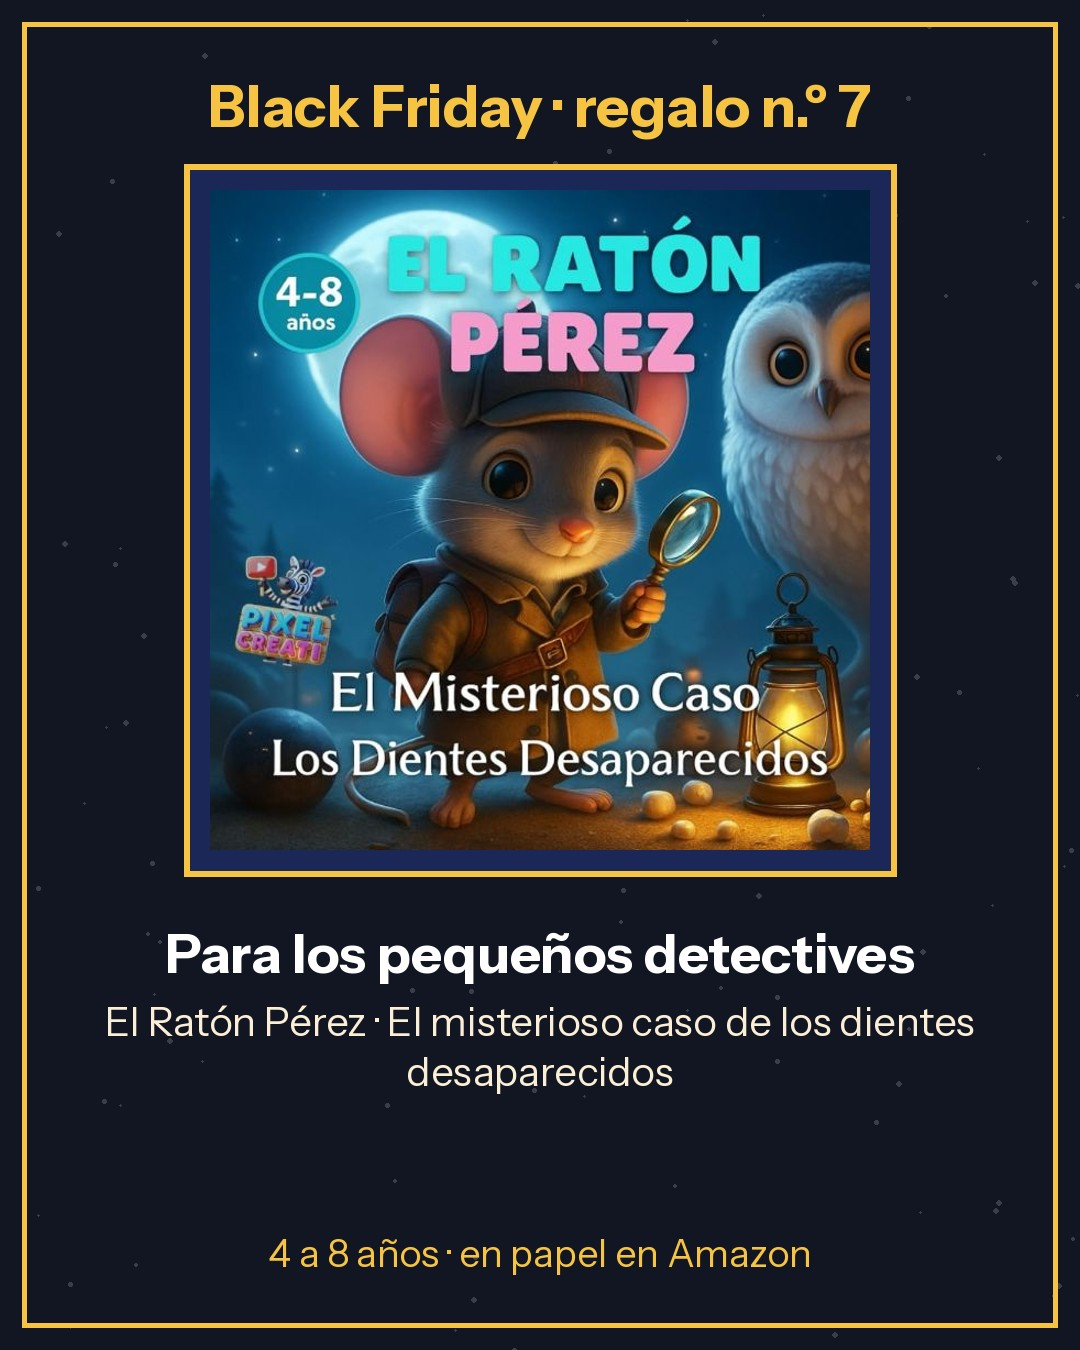
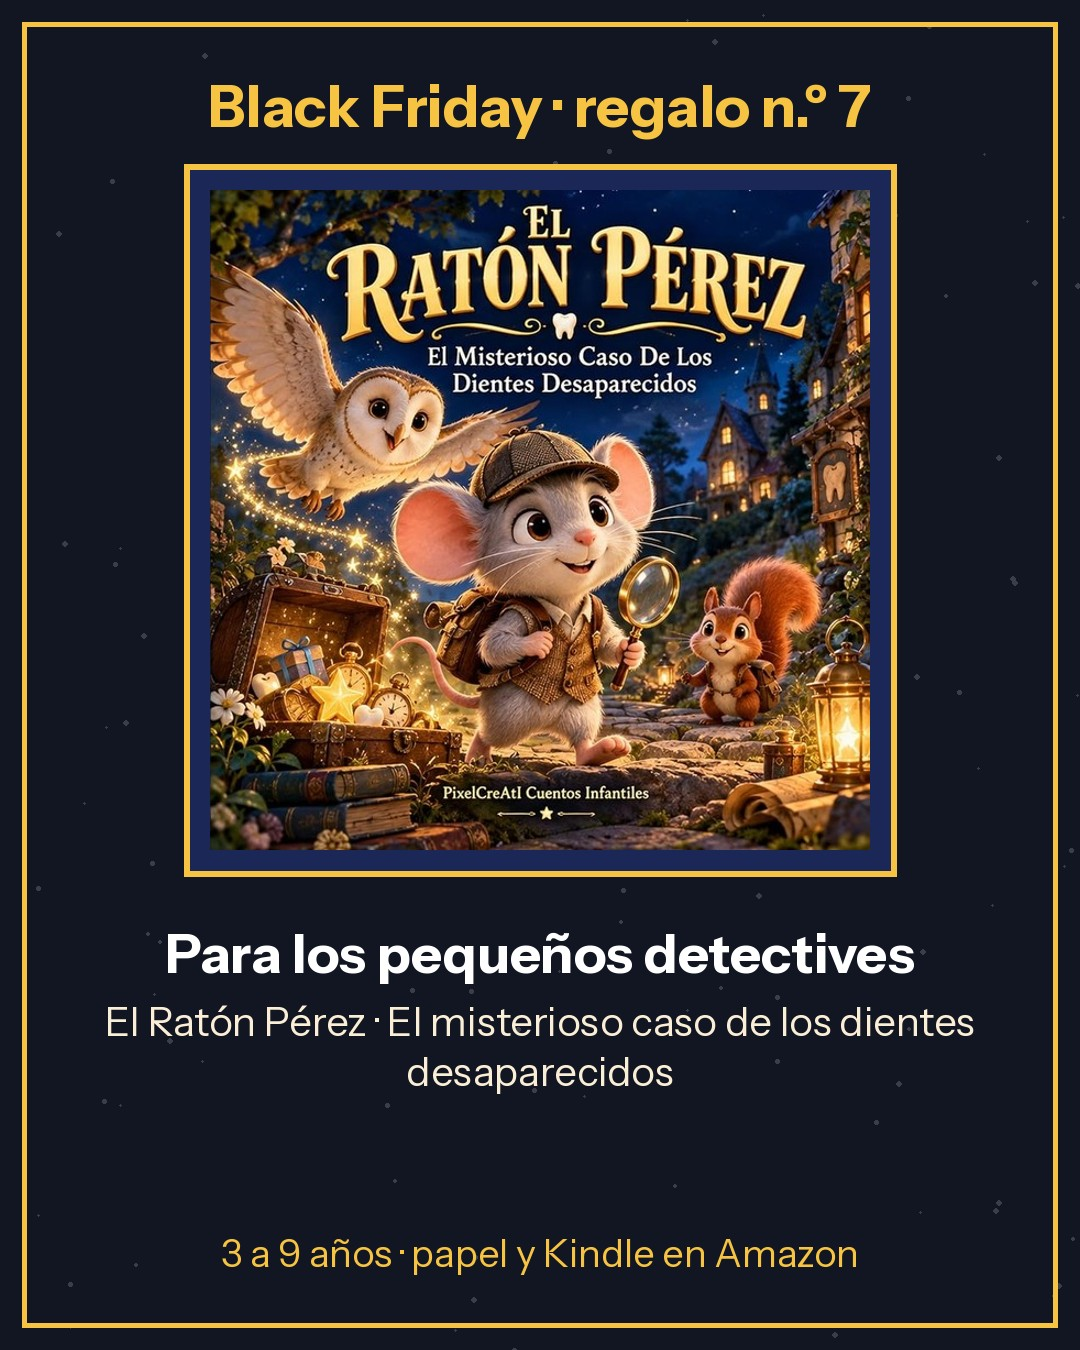
Ratón Pérez: edición nueva en la guía de regalos y las piezas (#25)
* Campañas Black Friday y Navidad: guía de regalos (6 libros), carrusel e historias BF/Cyber Monday y piezas navideñas de Pole y Chispa

Claude-Session: https://claude.ai/code/session_01YCMVw6rxdgjKcfUwU4SzzV

* Panel del canal: mensaje de Black Friday y Pole y Chispa en ideas de regalo

Claude-Session: https://claude.ai/code/session_01YCMVw6rxdgjKcfUwU4SzzV

* Ratón Pérez en la guía de regalos y en las piezas de Black Friday y Navidad

Claude-Session: https://claude.ai/code/session_01YCMVw6rxdgjKcfUwU4SzzV

* Resuelve conflicto de la fusión

* Regenera difusion.html con el Ratón Pérez

* Ratón Pérez: edición nueva (B0GTW2VW95 / Kindle B0HHDXS7F1) en guía, web y piezas

Claude-Session: https://claude.ai/code/session_01YCMVw6rxdgjKcfUwU4SzzV

---------

Changed region(s): [[0.1833, 0.1244, 0.825, 0.6533], [0.2139, 0.9022, 0.7944, 0.9644]]

diff --git a/regalos.html b/regalos.html
@@ -46,7 +46,7 @@ a{color:var(--azul)}
 <article class="ficha"><img src="img/regalos/libro-4.jpg" width="400" height="400" alt="Portada de El sueño de ser policía 4: La escuela de Capitán" loading="lazy">
 <div><h2>El sueño de ser policía 4</h2><p class="sub">La escuela de Capitán</p><p>Para los que adoran a los perros: los miedos se vencen poco a poco.</p><div class="btns"><a class="btn" href="https://www.amazon.es/dp/B0HQTTPR65" rel="noopener">Ver en Amazon</a></div></div></article>
 <article class="ficha"><img src="img/regalos/raton-perez.jpg" width="400" height="400" alt="Portada de El Ratón Pérez: el misterioso caso de los dientes desaparecidos" loading="lazy">
-<div><h2>El Ratón Pérez</h2><p class="sub">El misterioso caso de los dientes desaparecidos</p><p>Para los pequeños detectives: un misterio con lupa, pistas y mucha ternura.</p><div class="btns"><a class="btn" href="https://www.amazon.es/dp/B0D417ZZRC" rel="noopener">Tapa blanda</a></div></div></article>
+<div><h2>El Ratón Pérez</h2><p class="sub">El misterioso caso de los dientes desaparecidos</p><p>Para los pequeños detectives: un misterio con lupa, pistas y la Lechuza de los Sueños (3 a 9 años).</p><div class="btns"><a class="btn" href="https://www.amazon.es/dp/B0GTW2VW95" rel="noopener">Tapa blanda</a><a class="btn alt" href="https://www.amazon.es/dp/B0HHDXS7F1" rel="noopener">Kindle</a></div></div></article>
 <p class="nota">💡 Si lo quieres para Nochebuena, pídelo con tiempo: los plazos de entrega los indica Amazon en cada ficha. Los libros 1 a 4 de «El sueño de ser policía» también se pueden leer con Kindle Unlimited.</p>
 <p class="nota">🎒 ¿Aún no tienes el regalo de bienvenida? <a href="kit.html">Maletín de Pequeño Agente gratis</a> · <a href="club.html">Únete al Club de Aventuras</a></p>
 <footer><a href="index.html">PixelCreAtI</a> · Ilustraciones creadas con ayuda de IA. Página sin cookies ni seguimiento. · <a href="privacidad.html">Privacidad</a></footer>

diff --git a/difusion.html b/difusion.html
@@ -87,7 +87,7 @@ La colección «El sueño de ser policía» ya tiene 5 cuentos, cada uno con un 
 Consejo: si vuestro peque no los conoce, empezad por el 1.
 
 🐴 Y para los amantes de los caballos, ¡nuevo! «Pole y Chispa», en cómic: https://www.amazon.es/dp/B0D444YRQT
-🦷 Y para los pequeños detectives, «El Ratón Pérez»: https://www.amazon.es/dp/B0D417ZZRC
+🦷 Y para los pequeños detectives, «El Ratón Pérez»: https://www.amazon.es/dp/B0GTW2VW95
 🎁 Todos juntos, en papel y Kindle: https://pixelcreati.github.io/regalos.html</textarea></section><section id="m13"><h2>13. jueves 10/12 · Encuesta: Encuesta: formato</h2><textarea readonly rows="9">¿Cómo leéis los cuentos en casa?
 
 Opciones de la encuesta:
@@ -114,7 +114,7 @@ Libro 4 en Amazon: https://www.amazon.es/dp/B0HQTTPR65</textarea></section><sect
 
 En «El Ratón Pérez: el misterioso caso de los dientes desaparecidos» un detective muy pequeño resuelve un gran misterio. Perfecto para el primer diente.
 
-En Amazon: https://www.amazon.es/dp/B0D417ZZRC</textarea></section><section id="m18"><h2>18. lunes 21/12 · Encuesta: Encuesta: qué queréis en el canal</h2><textarea readonly rows="9">¿Qué os gustaría ver más en el Club en 2027?
+En Amazon: https://www.amazon.es/dp/B0GTW2VW95</textarea></section><section id="m18"><h2>18. lunes 21/12 · Encuesta: Encuesta: qué queréis en el canal</h2><textarea readonly rows="9">¿Qué os gustaría ver más en el Club en 2027?
 
 Opciones de la encuesta:
 - Actividades para imprimir

diff --git a/index.html b/index.html
@@ -47,7 +47,7 @@ footer{margin-top:32px;font-size:.85rem;text-align:center}
 <a class="boton" href="https://www.amazon.es/dp/B0D7SR382J" rel="noopener">Libro 1: El sueño de ser policía<span>Donde empieza la aventura de Pablo y el agente Juan</span></a>
 
 <h2>📚 Más cuentos</h2>
-<a class="boton" href="https://www.amazon.es/dp/B0D417ZZRC" rel="noopener">🦷 El Ratón Pérez: el misterioso caso de los dientes desaparecidos</a>
+<a class="boton" href="https://www.amazon.es/dp/B0GTW2VW95" rel="noopener">🦷 El Ratón Pérez: el misterioso caso de los dientes desaparecidos</a>
 <a class="boton" href="https://www.amazon.com/-/es/stores/author/B0D9C88MTV" rel="noopener">Todos los libros en Amazon<span>Todos los cuentos de PixelCreAtI</span></a>
 
 <h2>▶ Cuentos gratis en vídeo</h2>

diff --git a/club.html b/club.html
@@ -68,7 +68,7 @@ footer{margin-top:28px;font-size:.82rem;text-align:center}
 <p class="aviso">Los libros son de pago en Amazon y opcionales: el regalo es gratuito.</p>
 
 <h2>Más cuentos PixelCreAtI</h2>
-<a class="boton sec" href="https://amzn.eu/d/8PC95v8" rel="noopener">🦷 El Ratón Pérez: el misterioso caso de los dientes desaparecidos</a>
+<a class="boton sec" href="https://www.amazon.es/dp/B0GTW2VW95" rel="noopener">🦷 El Ratón Pérez: el misterioso caso de los dientes desaparecidos</a>
 <a class="boton sec" href="https://www.amazon.com/-/es/stores/author/B0D9C88MTV" rel="noopener">Todos los libros (incluye «Pole y Chispa»)</a>
 
 <h2>¿Prefieres recibirlo por correo? (opcional)</h2>
